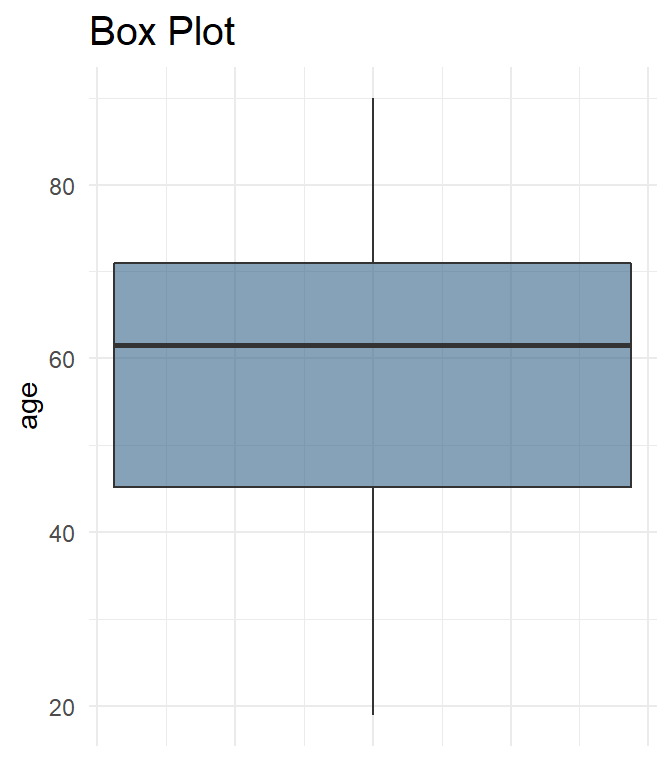
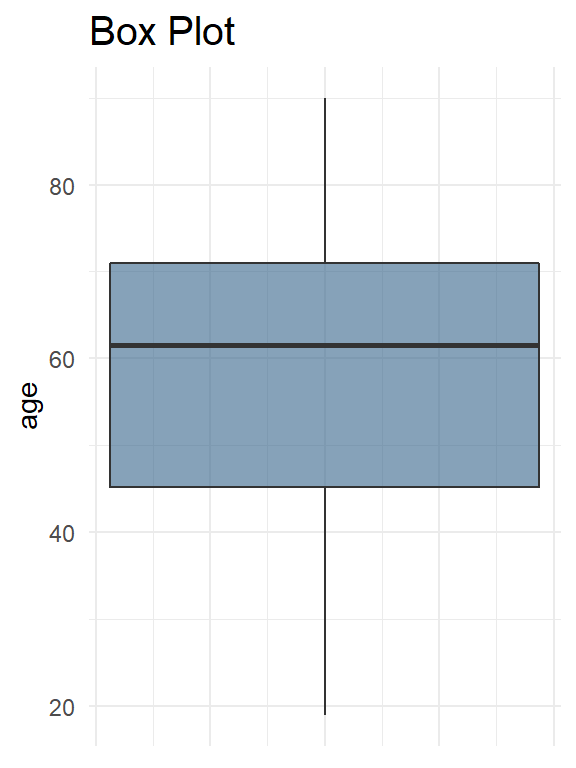
2.14 commit

diff --git a/_book/introduction.html b/_book/introduction.html
@@ -351,8 +351,8 @@ I --&gt; K[New Knowledge] &amp; Dec[Decision<br>Making]
 <div class="cell">
 <div class="cell-output-display">
 
-<div id="htmlwidget-12cae066db9adfc7db2b" style="width:100%;height:auto;" class="datatables html-widget"></div>
-<script type="application/json" data-for="htmlwidget-12cae066db9adfc7db2b">{"x":{"filter":"none","vertical":false,"extensions":["Scroller"],"data":[["1","2","3","4","5","6","7","8","9","10","11","12","13","14","15","16","17","18","19","20","21","22","23","24","25","26","27","28","29","30","31","32","33","34","35","36","37","38","39","40","41","42","43","44","45","46","47","48","49","50","51","52","53","54","55","56","57","58","59","60","61","62","63","64","65","66","67","68","69","70","71","72","73","74","75","76","77","78","79","80","81","82","83","84","85","86","87","88","89","90","91","92","93","94","95","96","97","98","99","100","101","102","103","104","105","106","107","108","109","110","111","112","113","114","115","116","117","118","119","120","121","122","123","124","125","126","127","128","129","130","131","132","133","134","135","136","137","138","139","140","141","142","143","144","145","146","147","148","149","150","151","152","153","154","155","156","157","158","159","160","161","162","163","164","165","166","167","168","169","170","171","172","173","174","175","176","177","178","179","180","181","182","183","184","185","186","187","188","189","190","191","192","193","194","195","196","197","198","199","200","201","202"],[1,2,3,4,5,6,7,8,9,10,11,12,13,14,15,16,17,18,19,20,21,22,23,24,25,26,27,28,29,30,31,32,33,34,35,36,37,38,39,40,41,42,43,44,45,46,47,48,49,50,51,52,53,54,55,56,57,58,59,60,61,62,63,64,65,66,67,68,69,70,71,72,73,74,75,76,77,78,79,80,81,82,83,84,85,86,87,88,89,90,91,92,93,94,95,96,97,98,99,100,101,102,103,104,105,106,107,108,109,110,111,112,113,114,115,116,117,118,119,120,121,122,123,124,125,126,127,128,129,130,131,132,133,134,135,136,137,138,139,140,141,142,143,144,145,146,147,148,149,150,151,152,153,154,155,156,157,158,159,160,161,162,163,164,165,166,167,168,169,170,171,172,173,174,175,176,177,178,179,180,181,182,183,184,185,186,187,188,189,190,191,192,193,194,195,196,197,198,199,200,201,202],["corn plaster","corn plaster","corn plaster","corn plaster","scalpel","scalpel","scalpel","scalpel","scalpel","scalpel","scalpel","scalpel","scalpel","scalpel","scalpel","scalpel","corn plaster","scalpel","scalpel","scalpel","corn plaster","scalpel","scalpel","scalpel","scalpel","scalpel","corn plaster","corn plaster","scalpel","scalpel","scalpel","scalpel","corn plaster","corn plaster","scalpel","corn plaster","corn plaster","scalpel","corn plaster","scalpel","corn plaster","corn plaster","scalpel","corn plaster","scalpel","scalpel","corn plaster","corn plaster","scalpel","corn plaster","scalpel","scalpel","corn plaster","corn plaster","scalpel","scalpel","corn plaster","scalpel","corn plaster","scalpel","corn plaster","scalpel","scalpel","scalpel","scalpel","corn plaster","scalpel","scalpel","corn plaster","corn plaster","scalpel","corn plaster","corn plaster","corn plaster","corn plaster","scalpel","scalpel","corn plaster","scalpel","scalpel","scalpel","scalpel","scalpel","scalpel","scalpel","corn plaster","corn plaster","corn plaster","scalpel","scalpel","corn plaster","scalpel","corn plaster","scalpel","scalpel","corn plaster","corn plaster","scalpel","corn plaster","corn plaster","scalpel","corn plaster","corn plaster","scalpel","corn plaster","scalpel","scalpel","corn plaster","scalpel","scalpel","corn plaster","scalpel","corn plaster","corn plaster","corn plaster","corn plaster","corn plaster","corn plaster","scalpel","corn plaster","scalpel","corn plaster","corn plaster","scalpel","corn plaster","corn plaster","scalpel","scalpel","corn plaster","corn plaster","corn plaster","corn plaster","corn plaster","scalpel","corn plaster","corn plaster","corn plaster","scalpel","corn plaster","corn plaster","corn plaster","scalpel","corn plaster","scalpel","corn plaster","scalpel","scalpel","corn plaster","corn plaster","corn plaster","corn plaster","scalpel","scalpel","scalpel","scalpel","scalpel","scalpel","scalpel","corn plaster","scalpel","scalpel","scalpel","corn plaster","scalpel","corn plaster","scalpel","corn plaster","corn plaster","scalpel","corn plaster","corn plaster","corn plaster","corn plaster","corn plaster","scalpel","scalpel","corn plaster","corn plaster","corn plaster","corn plaster","corn plaster","scalpel","scalpel","corn plaster","corn plaster","corn plaster","corn plaster","scalpel","scalpel","scalpel","corn plaster","scalpel","corn plaster","corn plaster","scalpel","corn plaster","scalpel","corn plaster","corn plaster","corn plaster","corn plaster","scalpel"],["Central","Huddersfield","Central","Central","Central","Central","Central","Central","Central","Central","Central","Central","Central","Central","Central","Central","Central","Central","Central","Central","Central","Central","Central","Central","Central","Central","Central","Central","Central","Central","Central","Central","Central","Central","Central","Central","Central","Central","Central","Central","Central","Central","Central","Central","Central","Central","Central","Central","Central","Central","Central","Central","Central","Central","Central","Central","Central","Central","Central","Central","Central","Central","Central","Central","First Park","First Park","First Park","First Park","First Park","First Park","First Park","First Park","First Park","First Park","Manor","Manor","Manor","Manor","Manor","Manor","Manor","Manor","Manor","Manor","Manor","Manor","Manor","Manor","Manor","Manor","Manor","Manor","Manor","Jordanthorpe","Jordanthorpe","Jordanthorpe","Jordanthorpe","Jordanthorpe","Jordanthorpe","Jordanthorpe","Jordanthorpe","Jordanthorpe","Jordanthorpe","Jordanthorpe","Darnall","Limbrick","Limbrick","Limbrick","Huddersfield","Huddersfield","Huddersfield","Huddersfield","Huddersfield","Huddersfield","Huddersfield","Central","Central","Central","Central","Central","Central","Central","Central","Central","Central","Central","Central","Central","Central","Central","Central","Central","Central","Central","Central","Central","Central","Central","Central","Central","First Park","Manor","Manor","Manor","Manor","Manor","Manor","Manor","Manor","Manor","Jordanthorpe","Jordanthorpe","Jordanthorpe","Jordanthorpe","Jordanthorpe","Jordanthorpe","Jordanthorpe","Jordanthorpe","Darnall","Limbrick","Limbrick","Limbrick","Limbrick","Limbrick","Darnall","Huddersfield","Central","Central","Central","Central","Central","Central","Central","Central","Central","Central","Central","Central","Central","Central","Central","Central","Central","Central","Central","Central","Central","Manor","Manor","Manor","Manor","Manor","Central","Jordanthorpe","Jordanthorpe","Jordanthorpe","Jordanthorpe","Jordanthorpe","Darnall","Limbrick","Darnall","Darnall"],["female","female","male","female","female","female","female","male","female","male","female","male","male","female","female","male","female","male","female","male","female","male","male","female","male","female","male","female","male","female","male","female","male","female","female","male","male","female","female","female","female","male","male","female","female","male","male","male","female","male","male","male","female","female","female","female","female","female","female","female","female","male","male","female","female","male","female","female","male","male","male","female","female","female","female","female","male","male","female","female","female","male","female","male","female","male","male","female","female","female","male","female","female","male","female","female","male","male","female","female","female","male","female","male","male","female","female","male","male","female","male","female","male","male","female","male","male","male","male","female","male","male","female","male","female","female","male","female","female","female","female","male","male","male","female","male","female","female","female","female","female","female","female","female","male","male","female","female","female","female","female","male","male","male","female","female","male","female","female","female","male","female","female","female","female","female","male","male","female","female","female","male","male","female","female","female","female","female","female","male","female","female","male","male","female","male","female","female","female","male","female","male","female","female","female","female","male","male","male","male","male","male"],[1,null,3,2,1,1,1,1,1,2,1,1,3,1,3,3,3,1,2,null,2,1,3,3,2,3,1,1,2,3,1,1,3,3,3,1,2,3,2,3,2,3,3,1,3,3,1,1,2,2,1,1,3,2,3,1,3,1,3,1,1,3,3,1,3,2,2,1,1,3,1,3,3,1,3,1,2,1,1,3,1,3,1,1,1,null,2,3,1,2,2,1,1,3,1,3,null,3,1,1,2,2,3,1,2,3,3,3,2,1,1,3,1,1,2,3,1,1,3,1,3,1,3,2,1,3,null,2,3,1,1,2,1,3,3,1,3,1,3,3,3,3,1,3,3,3,3,2,1,2,1,3,2,3,1,1,3,1,1,3,2,3,3,3,2,1,3,3,2,1,3,2,3,2,3,3,3,2,3,3,2,3,2,1,1,3,2,3,3,1,3,1,3,3,1,1,1,3,3,3,3,3],[1,null,1,1,1,1,1,1,1,1,1,1,1,1,1,1,1,1,1,1,1,1,1,1,1,1,1,1,1,1,1,1,1,1,1,1,1,1,1,1,1,1,1,1,1,1,1,1,1,1,1,1,1,1,1,1,1,1,1,1,1,1,1,1,1,1,1,1,1,1,1,1,1,1,1,1,1,1,1,1,1,1,1,1,1,1,1,1,1,1,1,1,1,1,1,1,1,1,1,1,1,1,1,1,1,1,1,1,1,1,1,1,1,1,1,2,2,2,2,2,2,2,2,2,2,2,2,2,2,2,2,2,2,2,2,2,2,2,2,2,2,2,2,2,2,2,2,2,2,2,2,2,2,2,2,2,2,2,2,2,2,2,2,2,2,2,3,3,3,3,3,3,3,3,3,3,3,3,3,3,3,3,3,3,3,3,3,3,3,3,3,3,3,3,3,3,3,3,3,3,3,3],[77,32,39,76,69,79,70,64,73,65,33,67,36,77,30,19,66,43,79,50,44,59,63,76,77,60,55,70,80,40,50,78,43,70,44,83,69,66,65,32,90,40,36,69,37,56,53,49,42,74,76,60,69,34,38,49,57,70,45,65,36,42,64,52,65,70,45,51,41,60,65,55,60,61,57,88,69,67,89,81,76,86,69,45,42,20,88,29,84,73,27,63,64,70,83,52,31,60,58,61,77,50,73,53,84,52,68,63,54,27,64,73,46,76,61,62,63,65,65,35,78,71,55,61,71,44,39,78,73,33,61,79,72,29,61,45,35,45,47,32,46,34,86,31,59,55,52,71,70,78,80,32,69,63,52,80,73,86,65,19,74,70,44,46,85,54,40,69,85,49,49,68,44,71,47,40,68,52,42,60,76,49,84,54,70,45,68,65,33,79,68,82,75,49,76,82,68,45,47,49,62,63],[1.100000024,null,5.300000191,7.599999905,1.399999976,4.599999905,9,4.599999905,2.400000095,3.299999952,7,0.699999988,2,1,4,6,1,7.599999905,7.800000191,1.5,3.599999905,0.100000001,5.400000095,8.800000191,8.5,5,1,8.800000191,3.299999952,6.199999809,5,2.5,1.600000024,6,9.800000191,9.5,2,5.400000095,2,7.5,4.5,2.400000095,5,3.200000048,8.5,6,0.400000006,3.299999952,1.399999976,1.5,0,0.100000001,1,5,3.700000048,5.400000095,1.899999976,5.400000095,7.400000095,6.699999809,9.399999619,7,1,4,8,7.900000095,3,6.199999809,0.5,8.5,0,7.599999905,2.5,3.400000095,6.5,2.700000048,8.600000381,8.699999809,4.099999905,7,0.600000024,1.200000048,4.900000095,10,3.799999952,2.400000095,7.400000095,4.5,0,9.100000381,10,4.5,6.599999905,2.400000095,9.5,5,3.400000095,5.199999809,9.600000381,6,4.699999809,7.300000191,7.5,0,4.5,1.200000048,7.199999809,3,0,0,3.099999905,8.899999619,2.5,0.400000006,6.199999809,7.300000191,4.800000191,7.5,2.5,4,2.5,2,5.599999905,6.599999905,5,8,6.599999905,5.199999809,4.599999905,0,4.900000095,4.300000191,4,8.399999619,8,8.5,9.399999619,7.800000191,9.300000191,10,9.899999619,8.899999619,8,9.100000381,8.199999809,5,4.599999905,4.699999809,6.5,8,6,3.099999905,5.699999809,6.699999809,6.800000191,1.5,3,7.5,7,5.5,0,4.699999809,7.199999809,5,3.299999952,1,2.5,9.100000381,4.699999809,6.599999905,6.199999809,3.599999905,7,6,10,9.199999809,10,2,10,6.800000191,2.5,10,7.300000191,2.799999952,4.900000095,9,8.5,6.099999905,8.600000381,6.199999809,8.399999619,8,10,10,1,10,1,9.399999619,8.800000191,9.699999809,6.800000191,4.300000191],[0.796000004,null,0.620000005,0.726999998,0.690999985,1,0.796000004,0.796000004,0.726999998,1,0.796000004,1,1,0.656000018,0.796000004,0.726999998,0.195000023,0.18900004,0.195000023,0.796000004,0.690999985,1,0.620000005,0.264000058,0.726999998,0.796000004,1,0.75999999,0.81400001,0.726999998,0.796000004,0.796000004,0.796000004,0.726999998,0.195000023,0.087999992,0.84800005,0.850000024,1,0.620000005,0.726999998,0.690999985,-0.065999962,0.796000004,0.195000023,0.690999985,0.850000024,0.796000004,0.726999998,1,1,0.726999998,0.796000004,0.796000004,0.796000004,1,1,0.725000024,1,0.796000004,0.157000035,1,0.516000032,0.690999985,0.726999998,0.726999998,0.620000005,0.84800005,0.087999992,0.029999996,0.516000032,0.195000023,0.159000009,0.796000004,0.726999998,0.364000022,0.029999996,0.656000018,0.726999998,0.656000018,0.264000058,0.726999998,0.725000024,-0.040999986,0.690999985,0.796000004,0.620000005,0.796000004,0.84800005,0.725000024,1,0.796000004,1,0.726999998,0.796000004,0.656000018,0.796000004,0.087999992,1,0.690999985,0.656000018,0.087999992,0.796000004,1,0.81400001,0.725000024,-0.016000008,0.587000012,1,1,0.726999998,0.195000023,0.796000004,1,0.796000004,0.726999998,0.690999985,0.796000004,0.796000004,null,1,null,0.620000005,0.690999985,0.487000048,0.690999985,0.796000004,0.725000024,0.690999985,1,0.620000005,0.796000004,1,0.159000009,0.690999985,0.516000032,0.159000009,0.656000018,0.656000018,0.75999999,0.087999992,1,0.850000024,0.620000005,0.690999985,0.796000004,0.796000004,0.796000004,0.796000004,0.796000004,1,0.796000004,0.796000004,0.850000024,0.725000024,0.796000004,1,0.710000038,0.725000024,0.620000005,0.796000004,1,0.656000018,0.620000005,1,0.796000004,0.690999985,0.159000009,0.656000018,0.796000004,0.743000031,0.159000009,0.124000005,0.726999998,-0.077,0.159000009,0.087999992,1,0.087999992,0.796000004,0.796000004,1,0.087999992,0.796000004,1,0.195000023,0.75999999,0.690999985,0.690999985,0.796000004,0.087999992,0.75999999,-0.073999979,0.195000023,0.690999985,0.726999998,1,0.264000058,0.193000048,-0.077,0.690999985,0.850000024],[90,null,51,80,85,45,75,50,98,95,95,85,95,90,88,92,90,55,65,100,65,50,74,95,87,90,100,82,77,60,100,95,95,95,100,79,75,55,99,80,50,100,75,65,85,84,89,75,91,62,98,55,60,90,40,55,100,43,95,86,15,70,61,60,75,50,60,65,75,73,50,45,60,15,65,50,39,40,56,40,null,95,95,0,85,100,90,70,98,88,49,85,98,80,100,85,80,54,99,90,55,60,80,80,80,60,40,75,75,80,71,65,50,85,88,70,76,95,89,95,79,94,80,82,40,80,90,70,96,90,70,95,70,95,89,68,85,50,85,100,50,90,50,61,80,80,90,60,70,80,100,50,90,90,50,85,80,81,92,60,88,75,53,66,79,71,80,90,70,70,85,80,60,83,0,null,85,85,35,80,79,80,51,100,80,65,60,70,95,75,50,70,50,50,60,70,100,100,50,30,44,90],[6,null,6,4,4,2,3,4,1,4,4,3,4,3,2,4,6,4,4,4,4,4,4,6,2,4,4,6,4,4,2,4,6,3,4,6,1,6,4,5,2,4,4,1,4,4,4,3,4,3,4,4,4,3,4,4,2,2,3,2,4,4,4,4,4,1,4,3,4,4,6,4,2,4,4,2,4,6,4,4,6,4,2,4,4,2,4,4,2,4,4,6,5,6,2,2,2,4,3,1,4,2,4,4,1,3,1,4,4,6,6,4,1,4,4,3,3,4,4,4,4,4,4,4,2,4,4,1,4,2,4,4,6,4,4,5,4,4,1,4,4,4,2,4,4,4,4,1,2,4,6,4,2,4,4,4,4,1,4,4,5,4,4,4,4,6,4,4,1,2,4,4,6,4,4,4,4,4,4,4,2,4,4,2,3,2,4,3,4,4,4,5,5,3,4,2,6,4,4,4,4,4],[null,null,5,4,2,3,5,10,5,4,2,2,3,2,5,5,6,4,3,4,3,10,4,1,3,7,6,2,3,2,2,4,2,4,3,3,2,2,4,5,3,3,5,5,4,2,3,4,4,4,3,3,4,2,2,3,2,2,2,2,5,3,4,4,8,3,5,2,3,5,3,5,4,2,5,6,2,5,5,5,2,4,3,4,5,5,4,4,2,3,3,1,2,3,3,8,1,4,2,3,2,5,7,4,6,2,3,2,2,2,4,5,2,3,6,5,6,5,6,3,3,3,5,3,6,2,3,3,3,2,3,2,4,4,4,4,3,3,3,4,2,4,3,5,3,5,5,3,5,1,3,5,8,5,3,5,1,3,4,9,4,4,4,8,10,1,5,4,4,10,4,3,3,5,4,4,5,3,4,2,3,3,3,7,3,5,2,4,5,3,5,5,4,6,2,2,2,4,6,3,5,8],[2,null,5,0,1,2,0,10,0,4,2,0,4,1,4,5,0,4,3,4,1,10,2,1,3,6,0,2,3,2,2,2,0,4,3,2,0,2,0,3,null,1,null,0,4,2,null,2,0,0,0,0,2,null,0,3,0,null,2,1,4,null,3,4,8,1,1,0,0,2,3,3,0,0,4,6,0,4,null,3,2,3,0,4,5,0,2,4,1,2,2,0,1,2,3,4,0,0,0,null,0,2,0,1,3,0,3,1,null,null,4,5,0,null,5,3,2,2,6,0,0,0,4,0,null,2,3,3,2,null,0,0,2,null,2,1,1,2,2,2,2,4,2,3,1,6,null,0,0,2,1,0,4,4,1,5,1,3,2,null,3,2,3,5,0,null,0,3,3,3,4,3,0,3,3,3,0,3,3,0,0,1,2,null,0,null,1,4,5,0,2,0,5,5,1,1,0,4,5,3,4,10],[null,null,0,-4,-1,-1,-5,0,-5,0,0,-2,1,-1,-1,0,-6,0,0,0,-2,0,-2,0,0,-1,-6,0,0,0,0,-2,-2,0,0,-1,-2,0,-4,-2,null,-2,null,-5,0,0,null,-2,-4,-4,-3,-3,-2,null,-2,0,-2,null,0,-1,-1,null,-1,0,0,-2,-4,-2,-3,-3,0,-2,-4,-2,-1,0,-2,-1,null,-2,0,-1,-3,0,0,-5,-2,0,-1,-1,-1,-1,-1,-1,0,-4,-1,-4,-2,null,-2,-3,-7,-3,-3,-2,0,-1,null,null,0,0,-2,null,-1,-2,-4,-3,0,-3,-3,-3,-1,-3,null,0,0,0,-1,null,-3,-2,-2,null,-2,-3,-2,-1,-1,-2,0,0,-1,-2,-2,1,null,-3,-5,1,-2,-5,-4,-1,-2,0,0,0,-2,null,-1,-2,-1,-3,-10,null,-5,-1,-1,-7,0,0,-3,-2,-1,-1,-5,0,-1,-2,-3,-2,-1,null,-3,null,-1,0,0,-3,-3,-5,1,-1,-1,-1,-2,0,-1,0,-1,2],[0,null,0,1,0,0,1,0,1,0,0,1,0,0,0,0,1,0,0,0,0,0,0,0,0,0,1,0,0,0,0,0,1,0,0,0,1,0,1,0,null,0,null,1,0,0,null,0,1,1,1,1,0,null,1,0,1,null,0,0,0,null,0,0,0,0,0,1,1,0,0,0,1,1,0,0,1,0,null,0,0,0,1,0,0,1,0,0,0,0,0,1,0,0,0,0,1,1,1,null,1,0,1,0,0,1,0,0,null,null,0,0,1,null,0,0,0,0,0,1,1,1,0,1,null,0,0,0,0,null,1,1,0,null,0,0,0,0,0,0,0,0,0,0,0,0,null,1,1,0,0,1,0,0,0,0,0,0,0,null,0,0,0,0,1,null,1,0,0,0,0,0,1,0,0,0,1,0,0,1,1,0,0,null,1,null,0,0,0,1,0,1,0,0,0,0,1,0,0,0,0,0],[2,null,5,0,1,2,0,10,0,4,2,0,4,1,4,5,0,4,3,4,1,10,2,1,3,6,0,2,3,2,2,2,0,4,3,2,0,2,0,3,null,1,null,0,4,2,2,2,0,0,0,0,2,null,0,3,0,null,2,1,4,null,3,4,8,1,1,0,0,2,3,3,0,0,4,6,0,4,null,3,2,3,0,4,5,0,2,4,1,2,2,0,1,2,3,4,0,0,0,null,0,2,0,1,3,0,3,1,1,3,4,5,0,0,5,3,2,2,6,0,0,0,4,0,0,2,3,3,2,null,0,0,2,null,2,1,1,2,2,2,2,4,2,3,1,6,null,0,0,2,1,0,4,4,1,5,1,3,2,7,3,2,3,5,0,null,0,3,3,3,4,3,0,3,3,3,0,3,3,0,0,1,2,3,0,null,1,4,5,0,2,0,5,5,1,1,0,4,5,3,4,10],[null,null,0,-4,-1,-1,-5,0,-5,0,0,-2,1,-1,-1,0,-6,0,0,0,-2,0,-2,0,0,-1,-6,0,0,0,0,-2,-2,0,0,-1,-2,0,-4,-2,null,-2,null,-5,0,0,-1,-2,-4,-4,-3,-3,-2,null,-2,0,-2,null,0,-1,-1,null,-1,0,0,-2,-4,-2,-3,-3,0,-2,-4,-2,-1,0,-2,-1,null,-2,0,-1,-3,0,0,-5,-2,0,-1,-1,-1,-1,-1,-1,0,-4,-1,-4,-2,null,-2,-3,-7,-3,-3,-2,0,-1,-1,1,0,0,-2,-3,-1,-2,-4,-3,0,-3,-3,-3,-1,-3,-6,0,0,0,-1,null,-3,-2,-2,null,-2,-3,-2,-1,-1,-2,0,0,-1,-2,-2,1,null,-3,-5,1,-2,-5,-4,-1,-2,0,0,0,-2,-2,-1,-2,-1,-3,-10,null,-5,-1,-1,-7,0,0,-3,-2,-1,-1,-5,0,-1,-2,-3,-2,-1,-4,-3,null,-1,0,0,-3,-3,-5,1,-1,-1,-1,-2,0,-1,0,-1,2],[0,null,0,1,1,1,1,0,1,0,0,1,0,1,1,0,1,0,0,0,1,0,1,0,0,1,1,0,0,0,0,1,1,0,0,1,1,0,1,1,null,1,null,1,0,0,1,1,1,1,1,1,1,null,1,0,1,null,0,1,1,null,1,0,0,1,1,1,1,1,0,1,1,1,1,0,1,1,null,1,0,1,1,0,0,1,1,0,1,1,1,1,1,1,0,1,1,1,1,null,1,1,1,1,1,1,0,1,1,0,0,0,1,1,1,1,1,1,0,1,1,1,1,1,1,0,0,0,1,null,1,1,1,null,1,1,1,1,1,1,0,0,1,1,1,0,null,1,1,0,1,1,1,1,1,0,0,0,1,1,1,1,1,1,1,null,1,1,1,1,0,0,1,1,1,1,1,0,1,1,1,1,1,1,1,null,1,0,0,1,1,1,0,1,1,1,1,0,1,0,1,0],[1,0,1,1,1,1,1,1,1,1,1,1,1,1,1,1,1,1,1,1,1,1,1,1,1,1,1,1,1,1,1,1,1,1,1,1,1,1,1,1,0,1,0,1,1,1,1,1,1,1,1,1,1,0,1,1,1,0,1,1,1,0,1,1,1,1,1,1,1,1,1,1,1,1,1,1,1,1,0,1,1,1,1,1,1,1,1,1,1,1,1,1,1,1,1,1,1,1,1,0,1,1,1,1,1,1,1,1,1,1,1,1,1,1,1,1,1,1,1,1,1,1,1,1,1,1,1,1,1,0,1,1,1,0,1,1,1,1,1,1,1,1,1,1,1,1,0,1,1,1,1,1,1,1,1,1,1,1,1,1,1,1,1,1,1,0,1,1,1,1,1,1,1,1,1,1,1,1,1,1,1,1,1,1,1,0,1,1,1,1,1,1,1,1,1,1,1,1,1,1,1,1],[0,null,0,1,0,0,1,0,1,0,0,1,0,0,0,0,1,0,0,0,0,0,0,0,0,0,1,0,0,0,0,0,1,0,0,0,1,0,1,0,null,0,null,1,0,0,0,0,1,1,1,1,0,null,1,0,1,null,0,0,0,null,0,0,0,0,0,1,1,0,0,0,1,1,0,0,1,0,null,0,0,0,1,0,0,1,0,0,0,0,0,1,0,0,0,0,1,1,1,null,1,0,1,0,0,1,0,0,0,0,0,0,1,1,0,0,0,0,0,1,1,1,0,1,1,0,0,0,0,null,1,1,0,null,0,0,0,0,0,0,0,0,0,0,0,0,null,1,1,0,0,1,0,0,0,0,0,0,0,0,0,0,0,0,1,null,1,0,0,0,0,0,1,0,0,0,1,0,0,1,1,0,0,0,1,null,0,0,0,1,0,1,0,0,0,0,1,0,0,0,0,0]],"container":"<table class=\"display\">\n  <thead>\n    <tr>\n      <th> <\/th>\n      <th>id<\/th>\n      <th>group<\/th>\n      <th>center<\/th>\n      <th>gender<\/th>\n      <th>smoking_history<\/th>\n      <th>no_of_corns<\/th>\n      <th>age<\/th>\n      <th>pain_baseline<\/th>\n      <th>eq5d_baseline<\/th>\n      <th>eq5d_VAS_baseline<\/th>\n      <th>index_corn_site<\/th>\n      <th>cornsize_base<\/th>\n      <th>cornsize_3<\/th>\n      <th>cornsize_change<\/th>\n      <th>cornresolved<\/th>\n      <th>cornsize_imp3<\/th>\n      <th>cornsize_change_imp<\/th>\n      <th>healed<\/th>\n      <th>healedknown<\/th>\n      <th>complete_healed<\/th>\n    <\/tr>\n  <\/thead>\n<\/table>","options":{"deferRender":false,"dom":"t","columnDefs":[{"className":"dt-center","targets":5},{"className":"dt-right","targets":[1,6,7,8,9,10,11,12,13,14,15,16,17,18,19,20]},{"orderable":false,"targets":0}],"scrollY":202,"scroller":true,"scrollX":true,"pageLength":5,"order":[],"autoWidth":false,"orderClasses":false,"lengthMenu":[5,10,25,50,100]}},"evals":[],"jsHooks":[]}</script>
+<div id="htmlwidget-bc5c80e78a538b27bac5" style="width:100%;height:auto;" class="datatables html-widget"></div>
+<script type="application/json" data-for="htmlwidget-bc5c80e78a538b27bac5">{"x":{"filter":"none","vertical":false,"extensions":["Scroller"],"data":[["1","2","3","4","5","6","7","8","9","10","11","12","13","14","15","16","17","18","19","20","21","22","23","24","25","26","27","28","29","30","31","32","33","34","35","36","37","38","39","40","41","42","43","44","45","46","47","48","49","50","51","52","53","54","55","56","57","58","59","60","61","62","63","64","65","66","67","68","69","70","71","72","73","74","75","76","77","78","79","80","81","82","83","84","85","86","87","88","89","90","91","92","93","94","95","96","97","98","99","100","101","102","103","104","105","106","107","108","109","110","111","112","113","114","115","116","117","118","119","120","121","122","123","124","125","126","127","128","129","130","131","132","133","134","135","136","137","138","139","140","141","142","143","144","145","146","147","148","149","150","151","152","153","154","155","156","157","158","159","160","161","162","163","164","165","166","167","168","169","170","171","172","173","174","175","176","177","178","179","180","181","182","183","184","185","186","187","188","189","190","191","192","193","194","195","196","197","198","199","200","201","202"],[1,2,3,4,5,6,7,8,9,10,11,12,13,14,15,16,17,18,19,20,21,22,23,24,25,26,27,28,29,30,31,32,33,34,35,36,37,38,39,40,41,42,43,44,45,46,47,48,49,50,51,52,53,54,55,56,57,58,59,60,61,62,63,64,65,66,67,68,69,70,71,72,73,74,75,76,77,78,79,80,81,82,83,84,85,86,87,88,89,90,91,92,93,94,95,96,97,98,99,100,101,102,103,104,105,106,107,108,109,110,111,112,113,114,115,116,117,118,119,120,121,122,123,124,125,126,127,128,129,130,131,132,133,134,135,136,137,138,139,140,141,142,143,144,145,146,147,148,149,150,151,152,153,154,155,156,157,158,159,160,161,162,163,164,165,166,167,168,169,170,171,172,173,174,175,176,177,178,179,180,181,182,183,184,185,186,187,188,189,190,191,192,193,194,195,196,197,198,199,200,201,202],["corn plaster","corn plaster","corn plaster","corn plaster","scalpel","scalpel","scalpel","scalpel","scalpel","scalpel","scalpel","scalpel","scalpel","scalpel","scalpel","scalpel","corn plaster","scalpel","scalpel","scalpel","corn plaster","scalpel","scalpel","scalpel","scalpel","scalpel","corn plaster","corn plaster","scalpel","scalpel","scalpel","scalpel","corn plaster","corn plaster","scalpel","corn plaster","corn plaster","scalpel","corn plaster","scalpel","corn plaster","corn plaster","scalpel","corn plaster","scalpel","scalpel","corn plaster","corn plaster","scalpel","corn plaster","scalpel","scalpel","corn plaster","corn plaster","scalpel","scalpel","corn plaster","scalpel","corn plaster","scalpel","corn plaster","scalpel","scalpel","scalpel","scalpel","corn plaster","scalpel","scalpel","corn plaster","corn plaster","scalpel","corn plaster","corn plaster","corn plaster","corn plaster","scalpel","scalpel","corn plaster","scalpel","scalpel","scalpel","scalpel","scalpel","scalpel","scalpel","corn plaster","corn plaster","corn plaster","scalpel","scalpel","corn plaster","scalpel","corn plaster","scalpel","scalpel","corn plaster","corn plaster","scalpel","corn plaster","corn plaster","scalpel","corn plaster","corn plaster","scalpel","corn plaster","scalpel","scalpel","corn plaster","scalpel","scalpel","corn plaster","scalpel","corn plaster","corn plaster","corn plaster","corn plaster","corn plaster","corn plaster","scalpel","corn plaster","scalpel","corn plaster","corn plaster","scalpel","corn plaster","corn plaster","scalpel","scalpel","corn plaster","corn plaster","corn plaster","corn plaster","corn plaster","scalpel","corn plaster","corn plaster","corn plaster","scalpel","corn plaster","corn plaster","corn plaster","scalpel","corn plaster","scalpel","corn plaster","scalpel","scalpel","corn plaster","corn plaster","corn plaster","corn plaster","scalpel","scalpel","scalpel","scalpel","scalpel","scalpel","scalpel","corn plaster","scalpel","scalpel","scalpel","corn plaster","scalpel","corn plaster","scalpel","corn plaster","corn plaster","scalpel","corn plaster","corn plaster","corn plaster","corn plaster","corn plaster","scalpel","scalpel","corn plaster","corn plaster","corn plaster","corn plaster","corn plaster","scalpel","scalpel","corn plaster","corn plaster","corn plaster","corn plaster","scalpel","scalpel","scalpel","corn plaster","scalpel","corn plaster","corn plaster","scalpel","corn plaster","scalpel","corn plaster","corn plaster","corn plaster","corn plaster","scalpel"],["Central","Huddersfield","Central","Central","Central","Central","Central","Central","Central","Central","Central","Central","Central","Central","Central","Central","Central","Central","Central","Central","Central","Central","Central","Central","Central","Central","Central","Central","Central","Central","Central","Central","Central","Central","Central","Central","Central","Central","Central","Central","Central","Central","Central","Central","Central","Central","Central","Central","Central","Central","Central","Central","Central","Central","Central","Central","Central","Central","Central","Central","Central","Central","Central","Central","First Park","First Park","First Park","First Park","First Park","First Park","First Park","First Park","First Park","First Park","Manor","Manor","Manor","Manor","Manor","Manor","Manor","Manor","Manor","Manor","Manor","Manor","Manor","Manor","Manor","Manor","Manor","Manor","Manor","Jordanthorpe","Jordanthorpe","Jordanthorpe","Jordanthorpe","Jordanthorpe","Jordanthorpe","Jordanthorpe","Jordanthorpe","Jordanthorpe","Jordanthorpe","Jordanthorpe","Darnall","Limbrick","Limbrick","Limbrick","Huddersfield","Huddersfield","Huddersfield","Huddersfield","Huddersfield","Huddersfield","Huddersfield","Central","Central","Central","Central","Central","Central","Central","Central","Central","Central","Central","Central","Central","Central","Central","Central","Central","Central","Central","Central","Central","Central","Central","Central","Central","First Park","Manor","Manor","Manor","Manor","Manor","Manor","Manor","Manor","Manor","Jordanthorpe","Jordanthorpe","Jordanthorpe","Jordanthorpe","Jordanthorpe","Jordanthorpe","Jordanthorpe","Jordanthorpe","Darnall","Limbrick","Limbrick","Limbrick","Limbrick","Limbrick","Darnall","Huddersfield","Central","Central","Central","Central","Central","Central","Central","Central","Central","Central","Central","Central","Central","Central","Central","Central","Central","Central","Central","Central","Central","Manor","Manor","Manor","Manor","Manor","Central","Jordanthorpe","Jordanthorpe","Jordanthorpe","Jordanthorpe","Jordanthorpe","Darnall","Limbrick","Darnall","Darnall"],["female","female","male","female","female","female","female","male","female","male","female","male","male","female","female","male","female","male","female","male","female","male","male","female","male","female","male","female","male","female","male","female","male","female","female","male","male","female","female","female","female","male","male","female","female","male","male","male","female","male","male","male","female","female","female","female","female","female","female","female","female","male","male","female","female","male","female","female","male","male","male","female","female","female","female","female","male","male","female","female","female","male","female","male","female","male","male","female","female","female","male","female","female","male","female","female","male","male","female","female","female","male","female","male","male","female","female","male","male","female","male","female","male","male","female","male","male","male","male","female","male","male","female","male","female","female","male","female","female","female","female","male","male","male","female","male","female","female","female","female","female","female","female","female","male","male","female","female","female","female","female","male","male","male","female","female","male","female","female","female","male","female","female","female","female","female","male","male","female","female","female","male","male","female","female","female","female","female","female","male","female","female","male","male","female","male","female","female","female","male","female","male","female","female","female","female","male","male","male","male","male","male"],[1,null,3,2,1,1,1,1,1,2,1,1,3,1,3,3,3,1,2,null,2,1,3,3,2,3,1,1,2,3,1,1,3,3,3,1,2,3,2,3,2,3,3,1,3,3,1,1,2,2,1,1,3,2,3,1,3,1,3,1,1,3,3,1,3,2,2,1,1,3,1,3,3,1,3,1,2,1,1,3,1,3,1,1,1,null,2,3,1,2,2,1,1,3,1,3,null,3,1,1,2,2,3,1,2,3,3,3,2,1,1,3,1,1,2,3,1,1,3,1,3,1,3,2,1,3,null,2,3,1,1,2,1,3,3,1,3,1,3,3,3,3,1,3,3,3,3,2,1,2,1,3,2,3,1,1,3,1,1,3,2,3,3,3,2,1,3,3,2,1,3,2,3,2,3,3,3,2,3,3,2,3,2,1,1,3,2,3,3,1,3,1,3,3,1,1,1,3,3,3,3,3],[1,null,1,1,1,1,1,1,1,1,1,1,1,1,1,1,1,1,1,1,1,1,1,1,1,1,1,1,1,1,1,1,1,1,1,1,1,1,1,1,1,1,1,1,1,1,1,1,1,1,1,1,1,1,1,1,1,1,1,1,1,1,1,1,1,1,1,1,1,1,1,1,1,1,1,1,1,1,1,1,1,1,1,1,1,1,1,1,1,1,1,1,1,1,1,1,1,1,1,1,1,1,1,1,1,1,1,1,1,1,1,1,1,1,1,2,2,2,2,2,2,2,2,2,2,2,2,2,2,2,2,2,2,2,2,2,2,2,2,2,2,2,2,2,2,2,2,2,2,2,2,2,2,2,2,2,2,2,2,2,2,2,2,2,2,2,3,3,3,3,3,3,3,3,3,3,3,3,3,3,3,3,3,3,3,3,3,3,3,3,3,3,3,3,3,3,3,3,3,3,3,3],[77,32,39,76,69,79,70,64,73,65,33,67,36,77,30,19,66,43,79,50,44,59,63,76,77,60,55,70,80,40,50,78,43,70,44,83,69,66,65,32,90,40,36,69,37,56,53,49,42,74,76,60,69,34,38,49,57,70,45,65,36,42,64,52,65,70,45,51,41,60,65,55,60,61,57,88,69,67,89,81,76,86,69,45,42,20,88,29,84,73,27,63,64,70,83,52,31,60,58,61,77,50,73,53,84,52,68,63,54,27,64,73,46,76,61,62,63,65,65,35,78,71,55,61,71,44,39,78,73,33,61,79,72,29,61,45,35,45,47,32,46,34,86,31,59,55,52,71,70,78,80,32,69,63,52,80,73,86,65,19,74,70,44,46,85,54,40,69,85,49,49,68,44,71,47,40,68,52,42,60,76,49,84,54,70,45,68,65,33,79,68,82,75,49,76,82,68,45,47,49,62,63],[1.100000024,null,5.300000191,7.599999905,1.399999976,4.599999905,9,4.599999905,2.400000095,3.299999952,7,0.699999988,2,1,4,6,1,7.599999905,7.800000191,1.5,3.599999905,0.100000001,5.400000095,8.800000191,8.5,5,1,8.800000191,3.299999952,6.199999809,5,2.5,1.600000024,6,9.800000191,9.5,2,5.400000095,2,7.5,4.5,2.400000095,5,3.200000048,8.5,6,0.400000006,3.299999952,1.399999976,1.5,0,0.100000001,1,5,3.700000048,5.400000095,1.899999976,5.400000095,7.400000095,6.699999809,9.399999619,7,1,4,8,7.900000095,3,6.199999809,0.5,8.5,0,7.599999905,2.5,3.400000095,6.5,2.700000048,8.600000381,8.699999809,4.099999905,7,0.600000024,1.200000048,4.900000095,10,3.799999952,2.400000095,7.400000095,4.5,0,9.100000381,10,4.5,6.599999905,2.400000095,9.5,5,3.400000095,5.199999809,9.600000381,6,4.699999809,7.300000191,7.5,0,4.5,1.200000048,7.199999809,3,0,0,3.099999905,8.899999619,2.5,0.400000006,6.199999809,7.300000191,4.800000191,7.5,2.5,4,2.5,2,5.599999905,6.599999905,5,8,6.599999905,5.199999809,4.599999905,0,4.900000095,4.300000191,4,8.399999619,8,8.5,9.399999619,7.800000191,9.300000191,10,9.899999619,8.899999619,8,9.100000381,8.199999809,5,4.599999905,4.699999809,6.5,8,6,3.099999905,5.699999809,6.699999809,6.800000191,1.5,3,7.5,7,5.5,0,4.699999809,7.199999809,5,3.299999952,1,2.5,9.100000381,4.699999809,6.599999905,6.199999809,3.599999905,7,6,10,9.199999809,10,2,10,6.800000191,2.5,10,7.300000191,2.799999952,4.900000095,9,8.5,6.099999905,8.600000381,6.199999809,8.399999619,8,10,10,1,10,1,9.399999619,8.800000191,9.699999809,6.800000191,4.300000191],[0.796000004,null,0.620000005,0.726999998,0.690999985,1,0.796000004,0.796000004,0.726999998,1,0.796000004,1,1,0.656000018,0.796000004,0.726999998,0.195000023,0.18900004,0.195000023,0.796000004,0.690999985,1,0.620000005,0.264000058,0.726999998,0.796000004,1,0.75999999,0.81400001,0.726999998,0.796000004,0.796000004,0.796000004,0.726999998,0.195000023,0.087999992,0.84800005,0.850000024,1,0.620000005,0.726999998,0.690999985,-0.065999962,0.796000004,0.195000023,0.690999985,0.850000024,0.796000004,0.726999998,1,1,0.726999998,0.796000004,0.796000004,0.796000004,1,1,0.725000024,1,0.796000004,0.157000035,1,0.516000032,0.690999985,0.726999998,0.726999998,0.620000005,0.84800005,0.087999992,0.029999996,0.516000032,0.195000023,0.159000009,0.796000004,0.726999998,0.364000022,0.029999996,0.656000018,0.726999998,0.656000018,0.264000058,0.726999998,0.725000024,-0.040999986,0.690999985,0.796000004,0.620000005,0.796000004,0.84800005,0.725000024,1,0.796000004,1,0.726999998,0.796000004,0.656000018,0.796000004,0.087999992,1,0.690999985,0.656000018,0.087999992,0.796000004,1,0.81400001,0.725000024,-0.016000008,0.587000012,1,1,0.726999998,0.195000023,0.796000004,1,0.796000004,0.726999998,0.690999985,0.796000004,0.796000004,null,1,null,0.620000005,0.690999985,0.487000048,0.690999985,0.796000004,0.725000024,0.690999985,1,0.620000005,0.796000004,1,0.159000009,0.690999985,0.516000032,0.159000009,0.656000018,0.656000018,0.75999999,0.087999992,1,0.850000024,0.620000005,0.690999985,0.796000004,0.796000004,0.796000004,0.796000004,0.796000004,1,0.796000004,0.796000004,0.850000024,0.725000024,0.796000004,1,0.710000038,0.725000024,0.620000005,0.796000004,1,0.656000018,0.620000005,1,0.796000004,0.690999985,0.159000009,0.656000018,0.796000004,0.743000031,0.159000009,0.124000005,0.726999998,-0.077,0.159000009,0.087999992,1,0.087999992,0.796000004,0.796000004,1,0.087999992,0.796000004,1,0.195000023,0.75999999,0.690999985,0.690999985,0.796000004,0.087999992,0.75999999,-0.073999979,0.195000023,0.690999985,0.726999998,1,0.264000058,0.193000048,-0.077,0.690999985,0.850000024],[90,null,51,80,85,45,75,50,98,95,95,85,95,90,88,92,90,55,65,100,65,50,74,95,87,90,100,82,77,60,100,95,95,95,100,79,75,55,99,80,50,100,75,65,85,84,89,75,91,62,98,55,60,90,40,55,100,43,95,86,15,70,61,60,75,50,60,65,75,73,50,45,60,15,65,50,39,40,56,40,null,95,95,0,85,100,90,70,98,88,49,85,98,80,100,85,80,54,99,90,55,60,80,80,80,60,40,75,75,80,71,65,50,85,88,70,76,95,89,95,79,94,80,82,40,80,90,70,96,90,70,95,70,95,89,68,85,50,85,100,50,90,50,61,80,80,90,60,70,80,100,50,90,90,50,85,80,81,92,60,88,75,53,66,79,71,80,90,70,70,85,80,60,83,0,null,85,85,35,80,79,80,51,100,80,65,60,70,95,75,50,70,50,50,60,70,100,100,50,30,44,90],[6,null,6,4,4,2,3,4,1,4,4,3,4,3,2,4,6,4,4,4,4,4,4,6,2,4,4,6,4,4,2,4,6,3,4,6,1,6,4,5,2,4,4,1,4,4,4,3,4,3,4,4,4,3,4,4,2,2,3,2,4,4,4,4,4,1,4,3,4,4,6,4,2,4,4,2,4,6,4,4,6,4,2,4,4,2,4,4,2,4,4,6,5,6,2,2,2,4,3,1,4,2,4,4,1,3,1,4,4,6,6,4,1,4,4,3,3,4,4,4,4,4,4,4,2,4,4,1,4,2,4,4,6,4,4,5,4,4,1,4,4,4,2,4,4,4,4,1,2,4,6,4,2,4,4,4,4,1,4,4,5,4,4,4,4,6,4,4,1,2,4,4,6,4,4,4,4,4,4,4,2,4,4,2,3,2,4,3,4,4,4,5,5,3,4,2,6,4,4,4,4,4],[null,null,5,4,2,3,5,10,5,4,2,2,3,2,5,5,6,4,3,4,3,10,4,1,3,7,6,2,3,2,2,4,2,4,3,3,2,2,4,5,3,3,5,5,4,2,3,4,4,4,3,3,4,2,2,3,2,2,2,2,5,3,4,4,8,3,5,2,3,5,3,5,4,2,5,6,2,5,5,5,2,4,3,4,5,5,4,4,2,3,3,1,2,3,3,8,1,4,2,3,2,5,7,4,6,2,3,2,2,2,4,5,2,3,6,5,6,5,6,3,3,3,5,3,6,2,3,3,3,2,3,2,4,4,4,4,3,3,3,4,2,4,3,5,3,5,5,3,5,1,3,5,8,5,3,5,1,3,4,9,4,4,4,8,10,1,5,4,4,10,4,3,3,5,4,4,5,3,4,2,3,3,3,7,3,5,2,4,5,3,5,5,4,6,2,2,2,4,6,3,5,8],[2,null,5,0,1,2,0,10,0,4,2,0,4,1,4,5,0,4,3,4,1,10,2,1,3,6,0,2,3,2,2,2,0,4,3,2,0,2,0,3,null,1,null,0,4,2,null,2,0,0,0,0,2,null,0,3,0,null,2,1,4,null,3,4,8,1,1,0,0,2,3,3,0,0,4,6,0,4,null,3,2,3,0,4,5,0,2,4,1,2,2,0,1,2,3,4,0,0,0,null,0,2,0,1,3,0,3,1,null,null,4,5,0,null,5,3,2,2,6,0,0,0,4,0,null,2,3,3,2,null,0,0,2,null,2,1,1,2,2,2,2,4,2,3,1,6,null,0,0,2,1,0,4,4,1,5,1,3,2,null,3,2,3,5,0,null,0,3,3,3,4,3,0,3,3,3,0,3,3,0,0,1,2,null,0,null,1,4,5,0,2,0,5,5,1,1,0,4,5,3,4,10],[null,null,0,-4,-1,-1,-5,0,-5,0,0,-2,1,-1,-1,0,-6,0,0,0,-2,0,-2,0,0,-1,-6,0,0,0,0,-2,-2,0,0,-1,-2,0,-4,-2,null,-2,null,-5,0,0,null,-2,-4,-4,-3,-3,-2,null,-2,0,-2,null,0,-1,-1,null,-1,0,0,-2,-4,-2,-3,-3,0,-2,-4,-2,-1,0,-2,-1,null,-2,0,-1,-3,0,0,-5,-2,0,-1,-1,-1,-1,-1,-1,0,-4,-1,-4,-2,null,-2,-3,-7,-3,-3,-2,0,-1,null,null,0,0,-2,null,-1,-2,-4,-3,0,-3,-3,-3,-1,-3,null,0,0,0,-1,null,-3,-2,-2,null,-2,-3,-2,-1,-1,-2,0,0,-1,-2,-2,1,null,-3,-5,1,-2,-5,-4,-1,-2,0,0,0,-2,null,-1,-2,-1,-3,-10,null,-5,-1,-1,-7,0,0,-3,-2,-1,-1,-5,0,-1,-2,-3,-2,-1,null,-3,null,-1,0,0,-3,-3,-5,1,-1,-1,-1,-2,0,-1,0,-1,2],[0,null,0,1,0,0,1,0,1,0,0,1,0,0,0,0,1,0,0,0,0,0,0,0,0,0,1,0,0,0,0,0,1,0,0,0,1,0,1,0,null,0,null,1,0,0,null,0,1,1,1,1,0,null,1,0,1,null,0,0,0,null,0,0,0,0,0,1,1,0,0,0,1,1,0,0,1,0,null,0,0,0,1,0,0,1,0,0,0,0,0,1,0,0,0,0,1,1,1,null,1,0,1,0,0,1,0,0,null,null,0,0,1,null,0,0,0,0,0,1,1,1,0,1,null,0,0,0,0,null,1,1,0,null,0,0,0,0,0,0,0,0,0,0,0,0,null,1,1,0,0,1,0,0,0,0,0,0,0,null,0,0,0,0,1,null,1,0,0,0,0,0,1,0,0,0,1,0,0,1,1,0,0,null,1,null,0,0,0,1,0,1,0,0,0,0,1,0,0,0,0,0],[2,null,5,0,1,2,0,10,0,4,2,0,4,1,4,5,0,4,3,4,1,10,2,1,3,6,0,2,3,2,2,2,0,4,3,2,0,2,0,3,null,1,null,0,4,2,2,2,0,0,0,0,2,null,0,3,0,null,2,1,4,null,3,4,8,1,1,0,0,2,3,3,0,0,4,6,0,4,null,3,2,3,0,4,5,0,2,4,1,2,2,0,1,2,3,4,0,0,0,null,0,2,0,1,3,0,3,1,1,3,4,5,0,0,5,3,2,2,6,0,0,0,4,0,0,2,3,3,2,null,0,0,2,null,2,1,1,2,2,2,2,4,2,3,1,6,null,0,0,2,1,0,4,4,1,5,1,3,2,7,3,2,3,5,0,null,0,3,3,3,4,3,0,3,3,3,0,3,3,0,0,1,2,3,0,null,1,4,5,0,2,0,5,5,1,1,0,4,5,3,4,10],[null,null,0,-4,-1,-1,-5,0,-5,0,0,-2,1,-1,-1,0,-6,0,0,0,-2,0,-2,0,0,-1,-6,0,0,0,0,-2,-2,0,0,-1,-2,0,-4,-2,null,-2,null,-5,0,0,-1,-2,-4,-4,-3,-3,-2,null,-2,0,-2,null,0,-1,-1,null,-1,0,0,-2,-4,-2,-3,-3,0,-2,-4,-2,-1,0,-2,-1,null,-2,0,-1,-3,0,0,-5,-2,0,-1,-1,-1,-1,-1,-1,0,-4,-1,-4,-2,null,-2,-3,-7,-3,-3,-2,0,-1,-1,1,0,0,-2,-3,-1,-2,-4,-3,0,-3,-3,-3,-1,-3,-6,0,0,0,-1,null,-3,-2,-2,null,-2,-3,-2,-1,-1,-2,0,0,-1,-2,-2,1,null,-3,-5,1,-2,-5,-4,-1,-2,0,0,0,-2,-2,-1,-2,-1,-3,-10,null,-5,-1,-1,-7,0,0,-3,-2,-1,-1,-5,0,-1,-2,-3,-2,-1,-4,-3,null,-1,0,0,-3,-3,-5,1,-1,-1,-1,-2,0,-1,0,-1,2],[0,null,0,1,1,1,1,0,1,0,0,1,0,1,1,0,1,0,0,0,1,0,1,0,0,1,1,0,0,0,0,1,1,0,0,1,1,0,1,1,null,1,null,1,0,0,1,1,1,1,1,1,1,null,1,0,1,null,0,1,1,null,1,0,0,1,1,1,1,1,0,1,1,1,1,0,1,1,null,1,0,1,1,0,0,1,1,0,1,1,1,1,1,1,0,1,1,1,1,null,1,1,1,1,1,1,0,1,1,0,0,0,1,1,1,1,1,1,0,1,1,1,1,1,1,0,0,0,1,null,1,1,1,null,1,1,1,1,1,1,0,0,1,1,1,0,null,1,1,0,1,1,1,1,1,0,0,0,1,1,1,1,1,1,1,null,1,1,1,1,0,0,1,1,1,1,1,0,1,1,1,1,1,1,1,null,1,0,0,1,1,1,0,1,1,1,1,0,1,0,1,0],[1,0,1,1,1,1,1,1,1,1,1,1,1,1,1,1,1,1,1,1,1,1,1,1,1,1,1,1,1,1,1,1,1,1,1,1,1,1,1,1,0,1,0,1,1,1,1,1,1,1,1,1,1,0,1,1,1,0,1,1,1,0,1,1,1,1,1,1,1,1,1,1,1,1,1,1,1,1,0,1,1,1,1,1,1,1,1,1,1,1,1,1,1,1,1,1,1,1,1,0,1,1,1,1,1,1,1,1,1,1,1,1,1,1,1,1,1,1,1,1,1,1,1,1,1,1,1,1,1,0,1,1,1,0,1,1,1,1,1,1,1,1,1,1,1,1,0,1,1,1,1,1,1,1,1,1,1,1,1,1,1,1,1,1,1,0,1,1,1,1,1,1,1,1,1,1,1,1,1,1,1,1,1,1,1,0,1,1,1,1,1,1,1,1,1,1,1,1,1,1,1,1],[0,null,0,1,0,0,1,0,1,0,0,1,0,0,0,0,1,0,0,0,0,0,0,0,0,0,1,0,0,0,0,0,1,0,0,0,1,0,1,0,null,0,null,1,0,0,0,0,1,1,1,1,0,null,1,0,1,null,0,0,0,null,0,0,0,0,0,1,1,0,0,0,1,1,0,0,1,0,null,0,0,0,1,0,0,1,0,0,0,0,0,1,0,0,0,0,1,1,1,null,1,0,1,0,0,1,0,0,0,0,0,0,1,1,0,0,0,0,0,1,1,1,0,1,1,0,0,0,0,null,1,1,0,null,0,0,0,0,0,0,0,0,0,0,0,0,null,1,1,0,0,1,0,0,0,0,0,0,0,0,0,0,0,0,1,null,1,0,0,0,0,0,1,0,0,0,1,0,0,1,1,0,0,0,1,null,0,0,0,1,0,1,0,0,0,0,1,0,0,0,0,0]],"container":"<table class=\"display\">\n  <thead>\n    <tr>\n      <th> <\/th>\n      <th>id<\/th>\n      <th>group<\/th>\n      <th>center<\/th>\n      <th>gender<\/th>\n      <th>smoking_history<\/th>\n      <th>no_of_corns<\/th>\n      <th>age<\/th>\n      <th>pain_baseline<\/th>\n      <th>eq5d_baseline<\/th>\n      <th>eq5d_VAS_baseline<\/th>\n      <th>index_corn_site<\/th>\n      <th>cornsize_base<\/th>\n      <th>cornsize_3<\/th>\n      <th>cornsize_change<\/th>\n      <th>cornresolved<\/th>\n      <th>cornsize_imp3<\/th>\n      <th>cornsize_change_imp<\/th>\n      <th>healed<\/th>\n      <th>healedknown<\/th>\n      <th>complete_healed<\/th>\n    <\/tr>\n  <\/thead>\n<\/table>","options":{"deferRender":false,"dom":"t","columnDefs":[{"className":"dt-center","targets":5},{"className":"dt-right","targets":[1,6,7,8,9,10,11,12,13,14,15,16,17,18,19,20]},{"orderable":false,"targets":0}],"scrollY":202,"scroller":true,"scrollX":true,"pageLength":5,"order":[],"autoWidth":false,"orderClasses":false,"lengthMenu":[5,10,25,50,100]}},"evals":[],"jsHooks":[]}</script>
 </div>
 </div>
 <p>&nbsp;</p>
@@ -1464,7 +1464,7 @@ Tip
 <div class="cell" data-layout-align="center">
 <div class="cell-output-display">
 <div id="fig-boxplot1" class="quarto-figure quarto-figure-center anchored">
-<figure class="figure"><p><img src="images/boxplot.png" class="img-fluid figure-img" style="width:80.0%"></p>
+<figure class="figure"><p><img src="images/boxplot.png" class="img-fluid figure-img" style="width:90.0%"></p>
 <p></p><figcaption class="figure-caption">Figure 1.11: Broad classification of the different types of data with examples</figcaption><p></p>
 </figure>
 </div>
@@ -1475,7 +1475,7 @@ Tip
 <div class="cell">
 <div class="cell-output-display">
 <div id="fig-boxplot2" class="quarto-figure quarto-figure-center anchored">
-<figure class="figure"><p><img src="introduction_files/figure-html/fig-boxplot2-1.png" class="img-fluid figure-img" width="336"></p>
+<figure class="figure"><p><img src="introduction_files/figure-html/fig-boxplot2-1.png" class="img-fluid figure-img" width="288"></p>
 <p></p><figcaption class="figure-caption">Figure 1.12: A box plot of age of the participants in <span class="citation" data-cites="farndon2013">Farndon et al. (<a href="references.html#ref-farndon2013" role="doc-biblioref">2013</a>)</span> study.</figcaption><p></p>
 </figure>
 </div>
@@ -1487,6 +1487,17 @@ Tip
 <div id="fig-boxplot3" class="quarto-figure quarto-figure-center anchored">
 <figure class="figure"><p><img src="introduction_files/figure-html/fig-boxplot3-1.png" class="img-fluid figure-img" width="624"></p>
 <p></p><figcaption class="figure-caption">Figure 1.13: A box plot of age of the participants in <span class="citation" data-cites="farndon2013">Farndon et al. (<a href="references.html#ref-farndon2013" role="doc-biblioref">2013</a>)</span> study.</figcaption><p></p>
+</figure>
+</div>
+</div>
+</div>
+<p>&nbsp;</p>
+<p>There are many variations of the boxplot. For example, there is a way to combine raw data (dots), probability density, and key summary statistics such as median, mean, and relevant confidence intervals in an appealing and flexible format with minimal redundancy, using the raincloud plot:</p>
+<div class="cell">
+<div class="cell-output-display">
+<div id="fig-boxplot4" class="quarto-figure quarto-figure-center anchored">
+<figure class="figure"><p><img src="introduction_files/figure-html/fig-boxplot4-1.png" class="img-fluid figure-img" width="720"></p>
+<p></p><figcaption class="figure-caption">Figure 1.14: A rain cloud plot of age of the participants in <span class="citation" data-cites="farndon2013">Farndon et al. (<a href="references.html#ref-farndon2013" role="doc-biblioref">2013</a>)</span> study.</figcaption><p></p>
 </figure>
 </div>
 </div>
